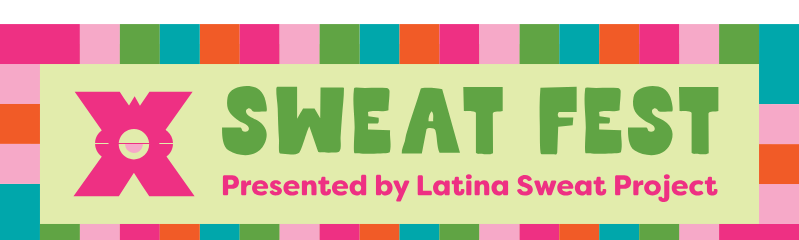
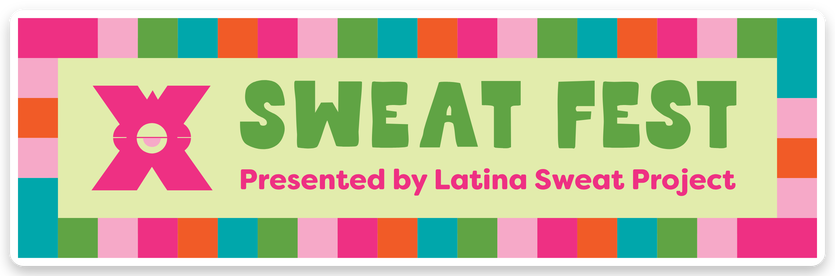
Photobooth: polish drawn stickers with die-cut treatment
The drawn stickers were capturing misaligned (Chrome headless enforces
a minimum window size, so 1:1 small captures screenshot a cropped
corner); they now render at 3x and downscale. Redesigned while at it:
foil-gold gradient, white die-cut border, and soft drop shadow across
the sparkle (now a double star), faceted diamond, rounded checker chip,
and a white sticker ring around the Sweat Fest lockup. Tray thumbnails
get a touch more room.

diff --git a/src/components/PhotoboothApp.svelte b/src/components/PhotoboothApp.svelte
@@ -817,7 +817,7 @@
                             <img
                                 src={s.src}
                                 alt={s.label}
-                                class="max-h-8 max-w-9 object-contain"
+                                class="max-h-9 max-w-10 object-contain"
                                 loading="lazy"
                             />
                         {/if}
